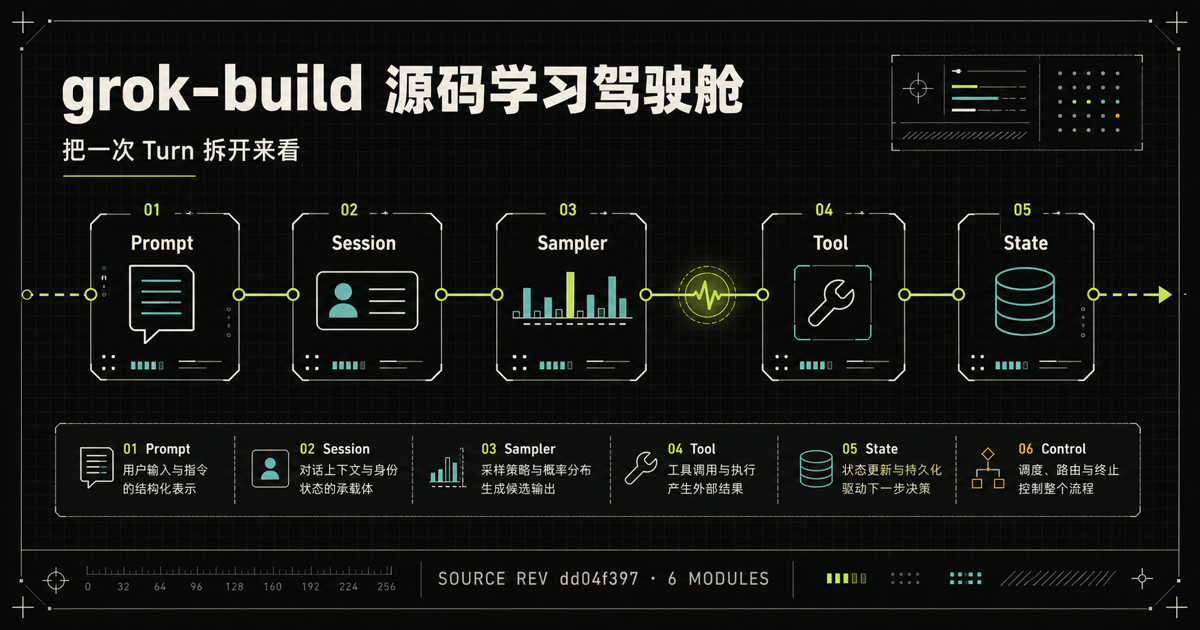
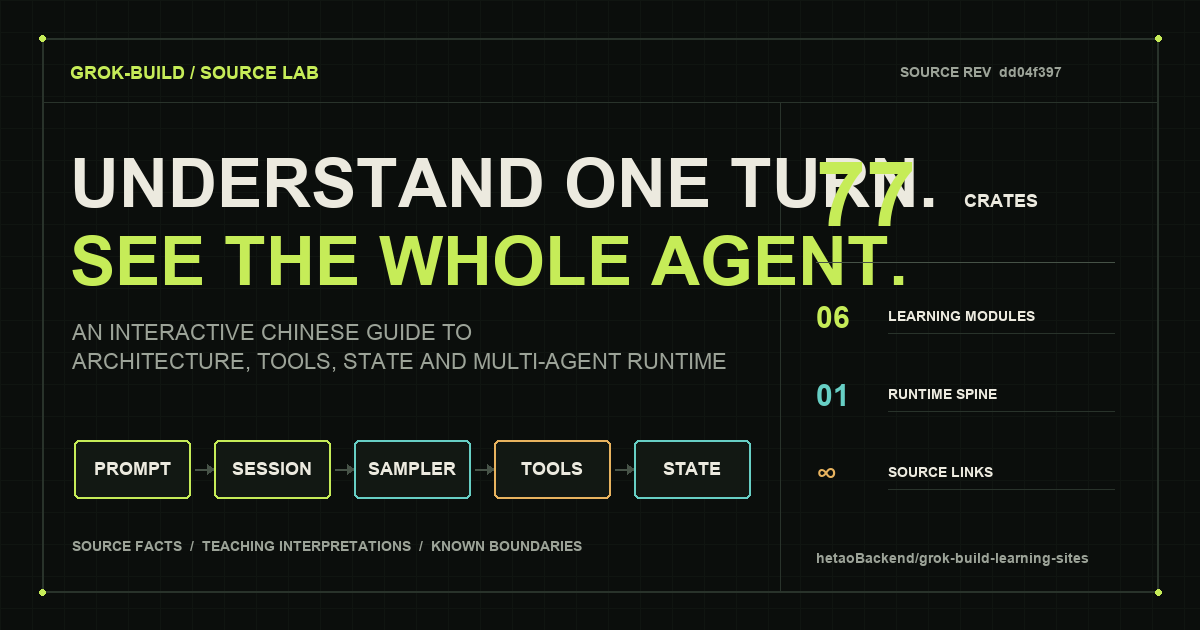
docs: turn repository into a project landing page

Changed region(s): [[0.0, 0.0302, 0.9867, 0.9952], [0.8942, 0.3921, 0.925, 0.4222], [0.0308, 0.6635, 0.0617, 0.6937]]

diff --git a/README.md b/README.md
@@ -1,98 +1,113 @@
-# vinext-starter
+# grok-build Source Lab
 
-A clean full-stack starter running on
-[vinext](https://github.com/cloudflare/vinext), with optional Cloudflare D1 and
-Drizzle support.
+[![CI](https://github.com/hetaoBackend/grok-build-learning-sites/actions/workflows/ci.yml/badge.svg)](https://github.com/hetaoBackend/grok-build-learning-sites/actions/workflows/ci.yml)
+[![License: MIT](https://img.shields.io/badge/License-MIT-c6ec58.svg)](LICENSE)
+[![Source revision](https://img.shields.io/badge/grok--build-dd04f397-67cfc5.svg)](https://github.com/xai-org/grok-build/tree/dd04f397b1d02f2272b092555669dfba1f01bc85)
 
-## Prerequisites
+一个面向工程师的中文交互式源码课程。沿着一次真实的 conversation turn，拆解 xAI [`grok-build`](https://github.com/xai-org/grok-build) 的 Session Actor、Sampler、工具安全、状态恢复、多界面适配和多 Agent 扩展机制。
+
+![grok-build Source Lab：从 Prompt 到 Session、Sampler、Tools 与 State 的交互式源码学习站](public/og.png)
+
+> 这不是 README 翻译，也不是 77 个 crate 的平铺清单。每个专题都从可操作的运行路径出发，再回到固定版本的源码证据。
+
+## 为什么做这个项目
+
+`grok-build` 是一个体量较大、入口分散的 Rust monorepo。直接按目录逐个阅读，很容易记住许多类型和文件，却仍然回答不了几个关键问题：一次 Turn 在哪里开始和结束？为什么会话状态保持串行，而模型请求可以并发？工具调用在产生真实副作用前会经过哪些检查？进程退出、上下文压缩或 rewind 后，系统怎样继续工作？
+
+这个项目把这些问题组织成一条可学习的主线：
+
+```text
+Prompt → Session Actor → Context → Sampler → Assistant Item
+                                             ↓
+                                         Tool Call
+                                             ↓
+                             Permission / Hook / Sandbox
+                                             ↓
+                                      Tool Result → loop
+```
+
+你可以先用交互图建立心智模型，再通过证据卡跳到对应 crate、文件和关键符号。
+
+## 六个学习专题
+
+| 专题 | 回答的问题 | 主要源码区域 |
+| --- | --- | --- |
+| [A · 架构地图](app/map/page.tsx) | 77 个 crate 应该从哪里开始读？ | binary entry、shell、sampler、tools、workspace |
+| [B · Turn 生命周期](app/runtime/page.tsx) | 一次 Turn 如何从 Prompt 走到完成？ | session actor、request task、tool loop |
+| [C · 工具与安全](app/tools-safety/page.tsx) | 副作用发生之前有哪几道门？ | plan mode、permission、hooks、sandbox |
+| [D · 状态与恢复](app/state/page.tsx) | 会话为什么不会轻易失忆？ | event log、compaction、checkpoint、rewind |
+| [E · 多界面](app/interfaces/page.tsx) | 一个内核如何服务五种外壳？ | TUI、headless、agent server、leader、ACP |
+| [F · 扩展与多 Agent](app/extensions/page.tsx) | Skill、Plugin、MCP 和 Subagent 从哪里进入？ | prompt、discovery、events、tools、child session |
+
+默认建议按 A → F 阅读；如果你正带着具体问题研究，也可以从任一专题独立进入。
+
+## 内容为什么可信
+
+课程固定在上游源码版本 [`dd04f397`](https://github.com/xai-org/grok-build/tree/dd04f397b1d02f2272b092555669dfba1f01bc85)，研究日期为 **2026-07-30**。页面中的技术陈述分成三类：
+
+- **源码事实**：可以由固定 SHA 的代码直接验证。
+- **教学解释**：为了建立心智模型，对多个实现点做的归纳。
+- **已知边界**：源码明确存在的限制、fail-open、降级或回退行为。
+
+安全相关内容不会只描述“有什么保护”，还会说明它没有覆盖什么。例如：Plan Mode 不等于 Bash/MCP 沙箱，Hook 处理器失败采用 fail-open，Subagent 请求 worktree 也不代表隔离一定成功。
+
+源码基线和 permalink 生成逻辑位于 [`lib/content/source.ts`](lib/content/source.ts)，各专题证据位于 [`lib/content/`](lib/content/)。
+
+## 本地运行
+
+### 环境要求
 
 - Node.js `>=22.13.0`
-
-## Quick Start
+- npm（锁文件已提交）
 
 ```bash
-npm install
+git clone https://github.com/hetaoBackend/grok-build-learning-sites.git
+cd grok-build-learning-sites
+npm ci
 npm run dev
-npm run build
 ```
 
-This starter does not use `wrangler.jsonc`.
+打开终端输出的本地地址即可开始学习。
 
-## Included Shape
+常用命令：
 
-- edit site code under `app/`
-- `.openai/hosting.json` declares optional Sites D1 and R2 bindings
-- `vite.config.ts` simulates declared bindings for local development
-- `db/schema.ts` starts intentionally empty
-- `examples/d1/` contains an optional D1 example surface
-- `drizzle.config.ts` supports local migration generation when needed
-
-## Workspace Auth Headers
-
-OpenAI workspace sites can read the current user's email from
-`oai-authenticated-user-email`.
-
-SIWC-authenticated workspace sites may also receive
-`oai-authenticated-user-full-name` when the user's SIWC profile has a non-empty
-`name` claim. The full-name value is percent-encoded UTF-8 and is accompanied by
-`oai-authenticated-user-full-name-encoding: percent-encoded-utf-8`.
-
-Treat the full name as optional and fall back to email when it is absent:
-
-```tsx
-import { headers } from "next/headers";
-
-export default async function Home() {
-  const requestHeaders = await headers();
-  const email = requestHeaders.get("oai-authenticated-user-email");
-  const encodedFullName = requestHeaders.get("oai-authenticated-user-full-name");
-  const fullName =
-    encodedFullName &&
-    requestHeaders.get("oai-authenticated-user-full-name-encoding") ===
-      "percent-encoded-utf-8"
-      ? decodeURIComponent(encodedFullName)
-      : null;
-
-  const displayName = fullName ?? email;
-  // ...
-}
+```bash
+npm run dev      # 启动本地开发服务
+npm run lint     # ESLint 检查
+npm run build    # 构建 vinext 产物
+npm test         # 构建并验证内容模型与全部学习路由
 ```
 
-## Optional Dispatch-Owned ChatGPT Sign-In
+项目使用 React、TypeScript、Next.js API 与 [vinext](https://github.com/cloudflare/vinext)。课程数据保存在本地类型化模块中，不依赖账号或服务端数据库；学习进度仅保存在浏览器 `localStorage`。
 
-Import the ready-to-use helpers from `app/chatgpt-auth.ts` when the site needs
-optional or required ChatGPT sign-in:
+## 项目结构
 
-- Use `getChatGPTUser()` for optional signed-in UI.
-- Use `requireChatGPTUser(returnTo)` for server-rendered pages that should send
-  anonymous visitors through Sign in with ChatGPT.
-- Use `chatGPTSignInPath(returnTo)` and `chatGPTSignOutPath(returnTo)` for
-  browser links or actions.
-- Pass a same-origin relative `returnTo` path for the destination after sign-in
-  or sign-out. The helper validates and safely encodes it.
-- Mark protected pages with `export const dynamic = "force-dynamic"` because
-  they depend on per-request identity headers.
+```text
+app/                 首页与六个学习路由
+components/          时间线、架构图、安全管线等交互组件
+lib/content/         类型化课程数据、证据与源码 permalink
+tests/               内容模型、渲染结果和站点契约测试
+docs/superpowers/    设计规格与实施计划
+public/              favicon 与社交预览资源
+```
 
-Dispatch owns `/signin-with-chatgpt`, `/signout-with-chatgpt`, `/callback`, the
-OAuth cookies, and identity header injection. Do not implement app routes for
-those reserved paths. Routes that do not import and call the helper remain
-anonymous-compatible.
+## 贡献
 
-SIWC establishes identity only; it does not prove workspace membership. Use the
-Sites hosting platform's access policy controls for workspace-wide restrictions,
-or enforce explicit server-side membership or allowlist checks.
+欢迎提交：
 
-Use SIWC for account pages, user-specific dashboards, saved records, and write
-actions tied to the current ChatGPT user. Leave public content anonymous.
+- 固定源码版本下的事实纠错或更精确的源码锚点；
+- 更容易理解、但不牺牲边界条件的中文解释；
+- 新的交互场景、无障碍与移动端改进；
+- 上游版本变化后的差异研究。
 
-## Useful Commands
+开始前请阅读 [CONTRIBUTING.md](CONTRIBUTING.md)。技术纠错请尽量附上固定 commit 的文件、符号或行号，避免只引用会持续变化的默认分支。
 
-- `npm run dev`: start local development
-- `npm run build`: verify the vinext build output
-- `npm test`: build the starter and verify its rendered loading skeleton
-- `npm run db:generate`: generate Drizzle migrations after schema changes
+如果这个项目能帮你更快理解 coding agent、Rust async runtime 或工具调用安全，可以点一个 Star，方便之后回来继续看新的源码版本和专题。
 
-## Learn More
+## 非官方声明
 
-- [vinext Documentation](https://github.com/cloudflare/vinext)
-- [Drizzle D1 Guide](https://orm.drizzle.team/docs/get-started/d1-new)
+本项目是独立制作的社区学习项目，与 xAI 无隶属、赞助或官方认可关系。`Grok`、`grok-build` 及相关名称归其各自权利人所有。课程只引用公开源码并链接回上游固定版本，不包含或重新分发上游仓库源码。
+
+## License
+
+站点代码与原创课程内容采用 [MIT License](LICENSE)。上游 `xai-org/grok-build` 的代码及名称仍遵循其自身许可与权利声明。

diff --git a/CONTRIBUTING.md b/CONTRIBUTING.md
@@ -1,0 +1,63 @@
+# Contributing
+
+感谢你愿意一起改进 grok-build Source Lab。这个项目首先是一份基于固定源码版本的技术解释，因此贡献的首要目标是：**让内容更容易理解，同时不丢失源码事实和边界条件。**
+
+## 可以贡献什么
+
+- 修正技术事实、crate 职责或源码链接；
+- 改进中文解释、术语一致性和阅读顺序；
+- 增加忠于源码状态机的交互场景；
+- 改善键盘操作、移动端布局、reduced-motion 和对比度；
+- 研究新的上游版本并记录与当前课程基线的差异。
+
+## 内容证据要求
+
+当前课程基线是 `xai-org/grok-build@dd04f397b1d02f2272b092555669dfba1f01bc85`。
+
+提交技术纠错时，请尽量附上：
+
+1. 固定 commit permalink；
+2. crate、文件路径和关键符号；
+3. 该结论属于源码事实、教学解释还是已知边界；
+4. 如果涉及安全机制，同时说明保护范围和未覆盖范围。
+
+不要仅引用上游默认分支，因为分支继续变化后，证据会漂移。
+
+## 本地开发
+
+需要 Node.js `>=22.13.0`。
+
+```bash
+npm ci
+npm run dev
+```
+
+提交前请运行：
+
+```bash
+npm run lint
+npm test
+```
+
+`npm test` 会执行生产构建，并验证六个专题路由、内容模型、固定源码证据和渲染结果。
+
+## 修改课程内容
+
+- 专题标题和学习顺序：`lib/content/modules.ts`
+- 源码版本与链接：`lib/content/source.ts`
+- 各专题证据和练习：`lib/content/*.ts`
+- 各专题概念正文：`app/<module>/page.tsx`
+- 共享教学结构：`components/ModuleLesson.tsx`
+
+请复用已有的事实 / 解释 / 边界标签，不要把教学归纳写成源码原生抽象。
+
+## Pull Request 建议
+
+一个 PR 尽量只解决一个明确问题。描述中请写清：
+
+- 改了什么；
+- 为什么需要改；
+- 如何验证；
+- 是否改变技术结论或源码基线。
+
+如果准备整体更新上游源码版本，请先创建 Issue，列出受影响专题和重新验证计划，避免不同基线的证据混在一起。
